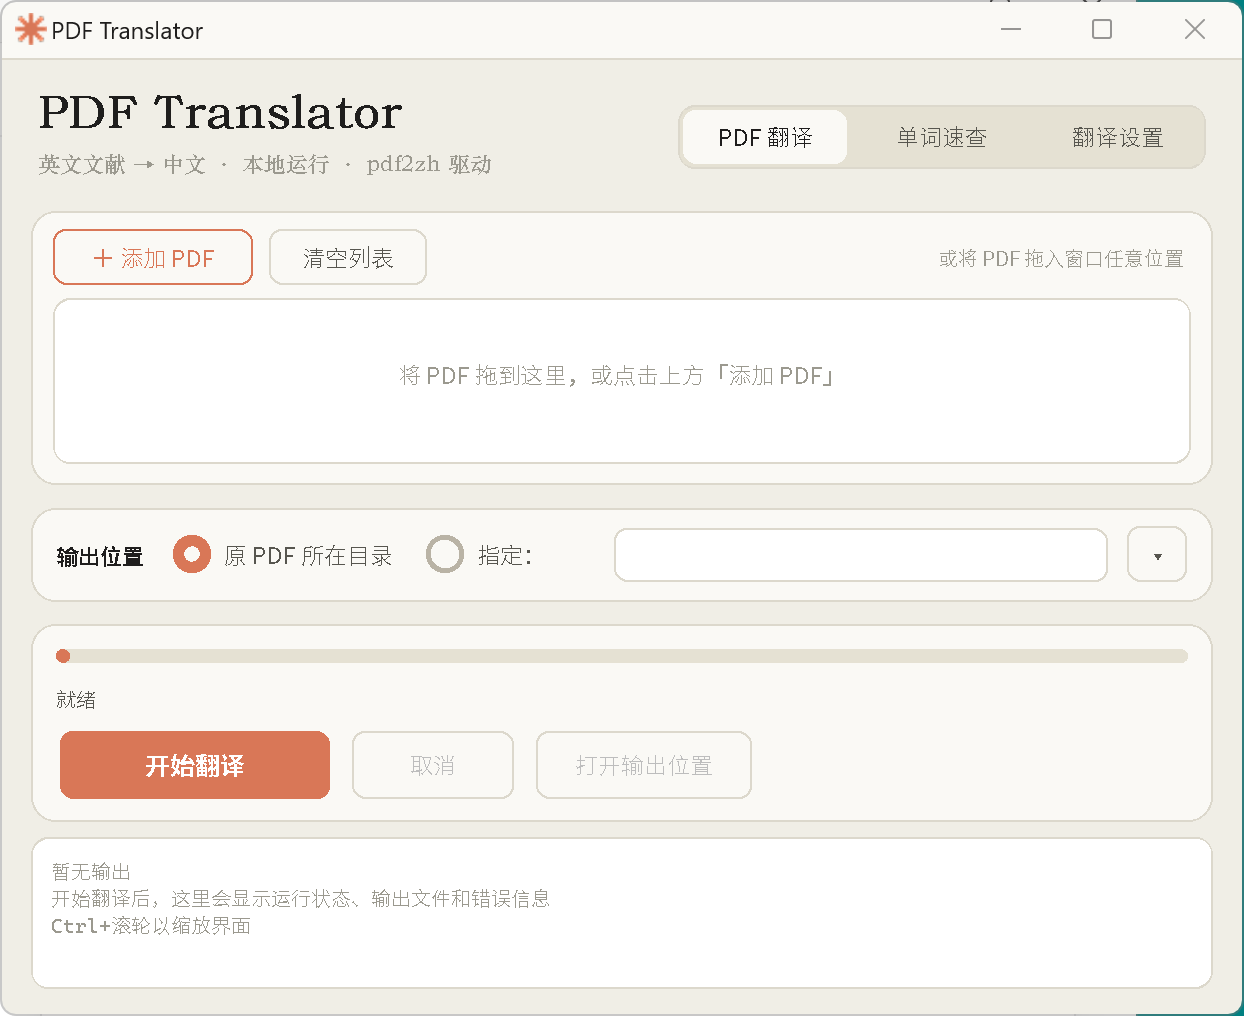
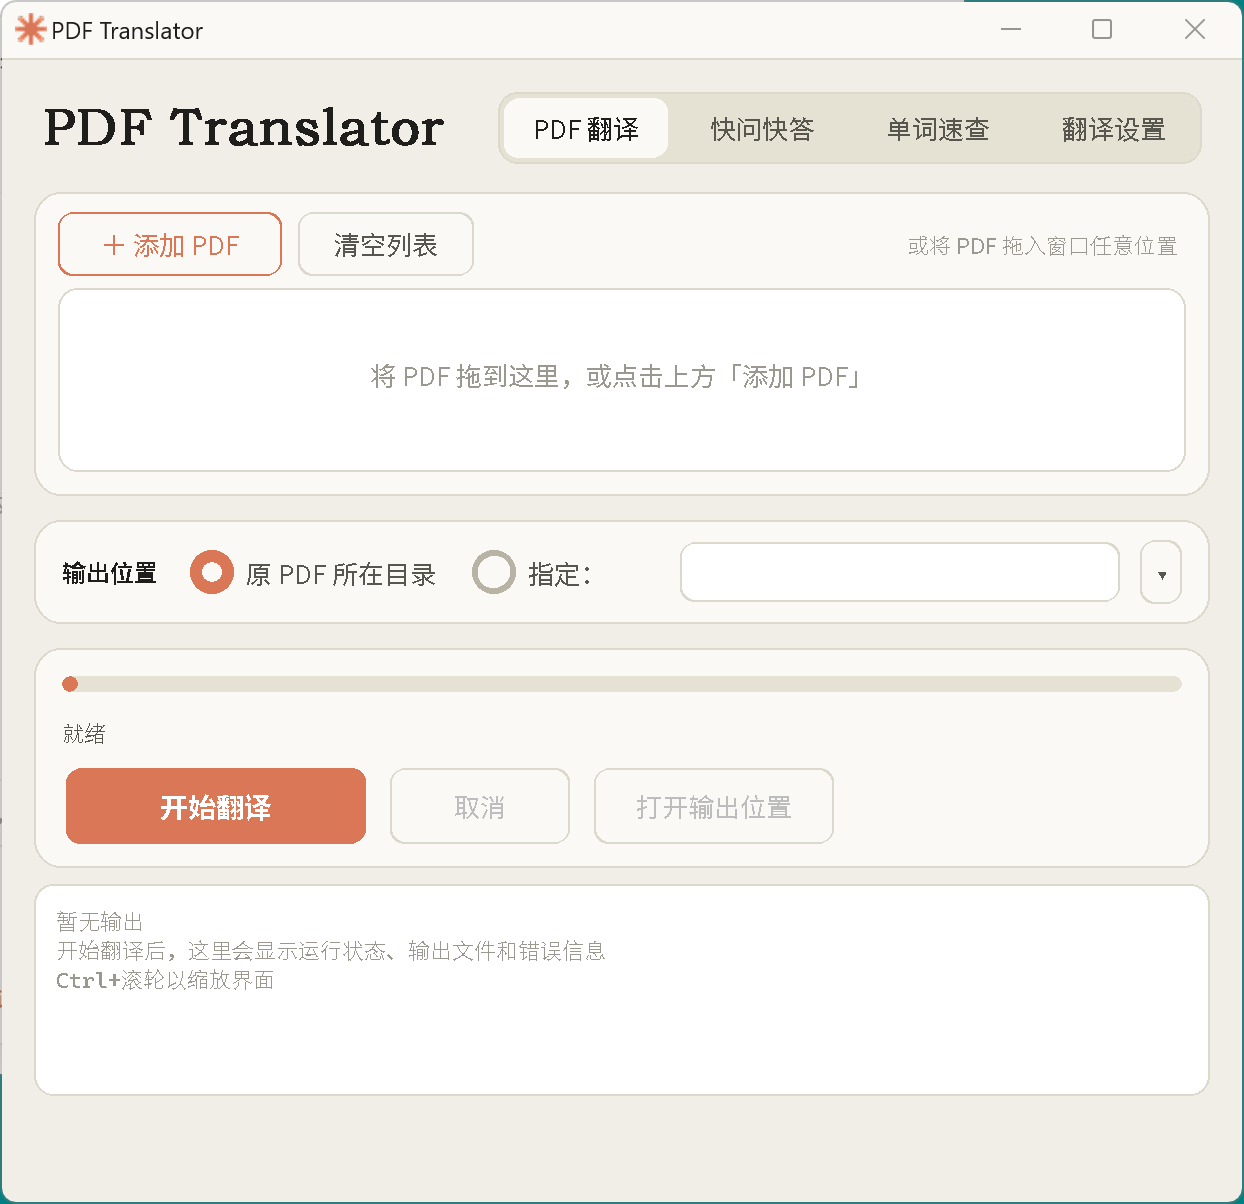
Update README screenshots and defaults

diff --git a/pdf2zh_gui.py b/pdf2zh_gui.py
@@ -2049,7 +2049,7 @@ class App(ctk.CTk, TkinterDnD.DnDWrapper):
         self.qa_btn.configure(height=32)
         self.qa_btn.pack(side="left", padx=(8, 0))
         self.qa_box = ctk.CTkTextbox(
-            qa, height=309, state="disabled", wrap="word",
+            qa, height=340, state="disabled", wrap="word",
             fg_color=WHITE, text_color=FAINT, font=self.f_body,
             corner_radius=10, border_width=1, border_color=LINE,
             scrollbar_button_color="#D8D3C6", scrollbar_button_hover_color="#C6BFAF",

diff --git a/README.md b/README.md
@@ -7,10 +7,11 @@
 ## 功能
 
 - 拖拽或选择多个 PDF 文件
-- 主界面分为「PDF 翻译」「单词速查」「翻译设置」三个选项卡
+- 主界面分为「PDF 翻译」「快问快答」「单词速查」「翻译设置」四个选项卡
 - 支持页码范围、输出目录、输出文件类型和并发线程设置
-- 翻译注意事项：把自定义要求（默认「保留所有英文人名、地名不翻译」）注入翻译提示词，自动记住上次填写内容
-- 单词速查：调用所选 AI 服务即时查词，支持英文/中文双向、音标和领域释义，结果区加高便于阅读
+- 翻译注意事项：把自定义要求注入翻译提示词，自动记住上次填写内容
+- 快问快答：调用翻译设置中的 AI 服务，适合阅读文献时临时提问，支持 Markdown 渲染和最近对话上下文
+- 单词速查：调用所选 AI 服务即时查词，支持英文/中文双向、音标和领域释义，结果区支持 Markdown 渲染
 - 模型列表支持「获取可用模型」后通过右侧下拉选择；长列表会限高并滚动，不会自动覆盖输入框
 - Ctrl+滚轮 缩放整个界面（70%–160%），Ctrl+0 复原；自动记住缩放比例和窗口尺寸
 - 自动保存翻译服务、语言、输出模式、页码、线程、缓存、注意事项和输出目录等设置
@@ -22,6 +23,8 @@
 ## 界面预览
 
 ![PDF 翻译](docs/screenshots/pdf-translate.png)
+
+![快问快答](docs/screenshots/quick-qa.png)
 
 ![单词速查](docs/screenshots/word-lookup.png)
 
@@ -100,9 +103,24 @@ LongCat / Claude 兼容服务可选：
 
 这些文件包含个人配置和密钥，不应提交到 GitHub。
 
-## 翻译注意事项与单词速查
+## 默认设置
+
+仓库内的 `default_gui_prefs.json` 只保存安全的 GUI 默认偏好，不包含 API Key、Base URL 或私人模型服务配置。
+
+当前默认偏好包括：
+
+- 源语言：English
+- 目标语言：简体中文
+- 输出文件：仅双语
+- 并发线程：8
+- 翻译缓存：启用（不默认忽略缓存）
+- 界面缩放：90%
+- 默认注意事项：不翻译公式、参考文献、URL/DOI/邮箱，并保留英文人名、地名和常见专业术语缩写
+
+## 翻译注意事项、快问快答与单词速查
 
 - **注意事项**：在「翻译设置」最后一行填写对 AI 的要求（多条用分号或换行分隔），会作为规则注入每次翻译的提示词。修改注意事项后同一文档会重新翻译（缓存按提示词区分），留空则使用 pdf2zh 原始提示词。
+- **快问快答**：在「快问快答」卡片输入阅读文献时遇到的小问题并按 Enter，即用当前选中的 ★ AI 服务回答。会保留最近 10 轮上下文，不写入配置文件。
 - **单词速查**：在「单词速查」卡片输入英文或中文按 Enter，即用当前选中的 ★ AI 服务返回词典式释义。需要先配置一个自定义 AI 服务（google/bing 翻译不支持查词）。
 
 ## 说明
